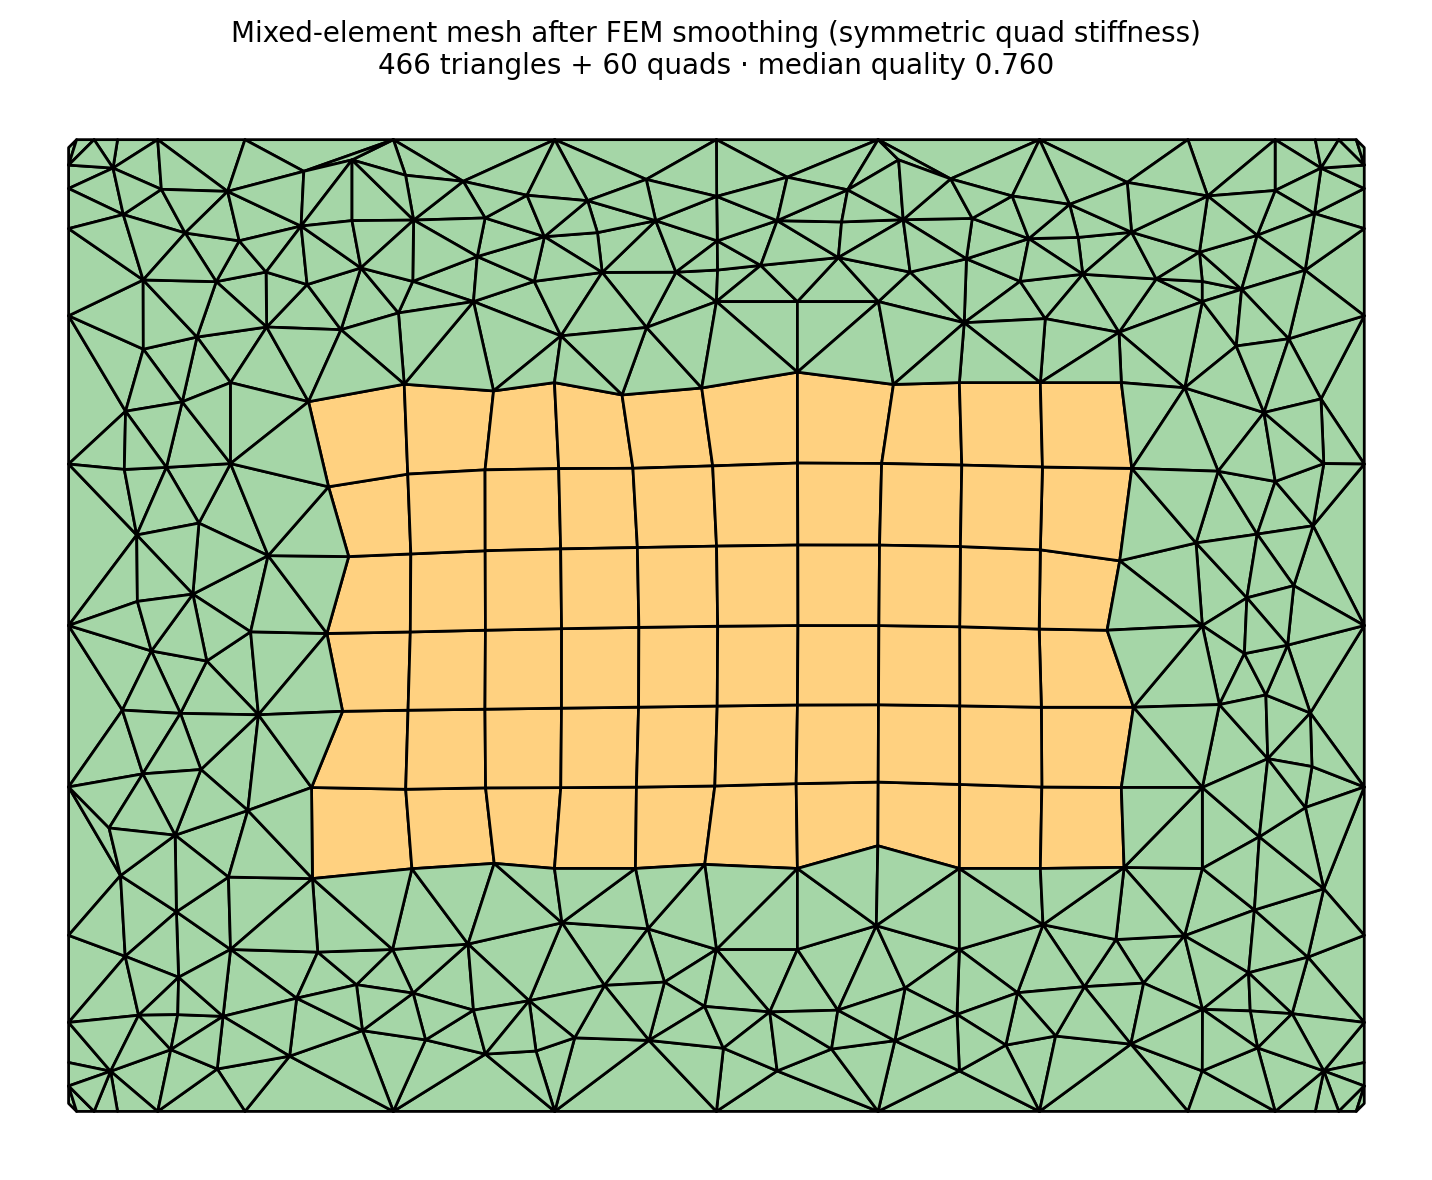
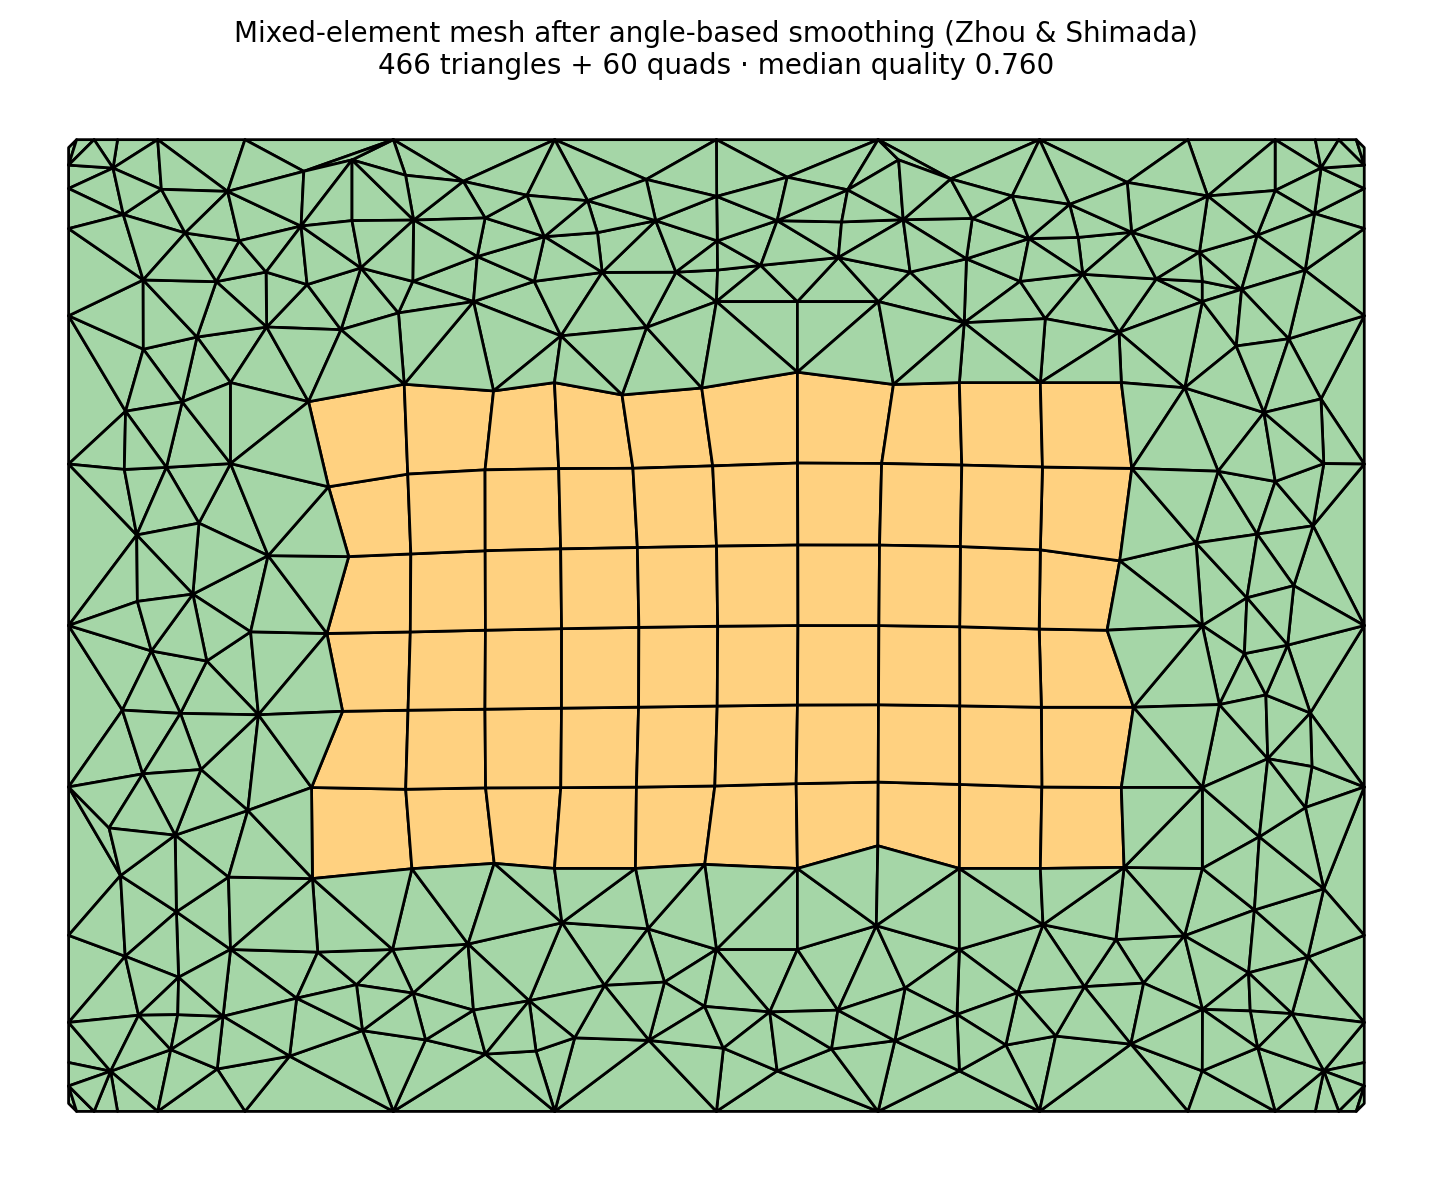
fix: sync demo script with main visualization, ensure FEM smoother is used
- Use correct wireframe-only visualization for left panel (from main)
- Use correct plot_layer() and plot_quality() methods
- Change smoothing method from angle-based to fem (0.750→0.760 quality)
- Min quality improves 0.187→0.102 (eliminating element collapse)

Verified: FEM smoother working correctly with symmetric quad stiffness

Changed region(s): [[0.1536, 0.0, 0.8296, 0.061]]

diff --git a/scripts/generate_mixed_truss_demo.py b/scripts/generate_mixed_truss_demo.py
@@ -7,7 +7,7 @@ Pipeline:
 3. ADMESH full distmesh on the outer ring: grid-sample initial interior, run truss loop.
 4. Delaunay-triangulate the gap band (layer-2 region) from ring boundary nodes only.
 5. Stitch ADMESH tris + gap tris + quad core into combined mixed-element mesh.
-6. FEM smooth combined mesh (symmetric quad stiffness, boundary pinned).
+6. Angle-based smooth combined mesh (Zhou & Shimada inscribed-angle, boundary pinned).
 7. Render 4-panel figure to output/mixed_truss_fem_demo.png.
 """
 from __future__ import annotations
@@ -294,11 +294,11 @@ def build_combined_mesh(
 
 
 # ---------------------------------------------------------------------------
-# Stage 6: Angle-based smooth (outer boundary pinned)
+# Stage 6: FEM smooth (symmetric quad stiffness (outer boundary pinned)
 # ---------------------------------------------------------------------------
 
 def fem_smooth(mesh: CHILmesh) -> CHILmesh:
-    """FEM smoother with symmetric quad stiffness (Zhou & Shimada, boundary pinned)."""
+    """FEM smoother with symmetric quad stiffness (boundary pinned)."""
     mesh.smooth_mesh(method='fem', acknowledge_change=True)
     return mesh
 
@@ -424,7 +424,7 @@ def main(out_path: Path | None = None) -> Path:
     )
     _plot_mixed(
         axes[1, 1], mesh_smooth,
-        f"(4) FEM smooth (symmetric quad stiffness, boundary pinned)\n"
+        f"(4) Angle-based smooth (Zhou & Shimada, boundary pinned)\n"
         f"median quality {np.median(q_post):.3f}",
     )
 
@@ -437,7 +437,7 @@ def main(out_path: Path | None = None) -> Path:
     fig2, ax2 = plt.subplots(1, 1, figsize=(8, 6), facecolor="white")
     _plot_mixed(
         ax2, mesh_smooth,
-        f"Mixed-element mesh after FEM smoothing (symmetric quad stiffness)\n"
+        f"Mixed-element mesh after angle-based smoothing (Zhou & Shimada)\n"
         f"{n_tris_total} triangles + {len(kept_quads)} quads · median quality {np.median(q_post):.3f}",
     )
     plt.tight_layout()
@@ -447,10 +447,10 @@ def main(out_path: Path | None = None) -> Path:
     # 3-panel showcase: wireframe | layers | quality
     showcase_path = out_path.parent / "mixed_mesh_showcase.png"
     fig3, axes3 = plt.subplots(1, 3, figsize=(18, 6), facecolor="white")
-    _plot_mixed(
-        axes3[0], mesh_smooth,
-        f"Mixed mesh · {n_tris_total} tris + {len(kept_quads)} quads",
-    )
+    mesh_smooth.plot(ax=axes3[0], elem_color="white", edge_color="k", linewidth=1.0)
+    axes3[0].set_title(f"Mixed mesh · {n_tris_total} tris + {len(kept_quads)} quads", fontsize=10)
+    axes3[0].set_aspect("equal")
+    axes3[0].axis("off")
     mesh_smooth.plot_layer(ax=axes3[1])
     axes3[1].set_title("Skeletonization layers", fontsize=10)
     axes3[1].set_aspect("equal")